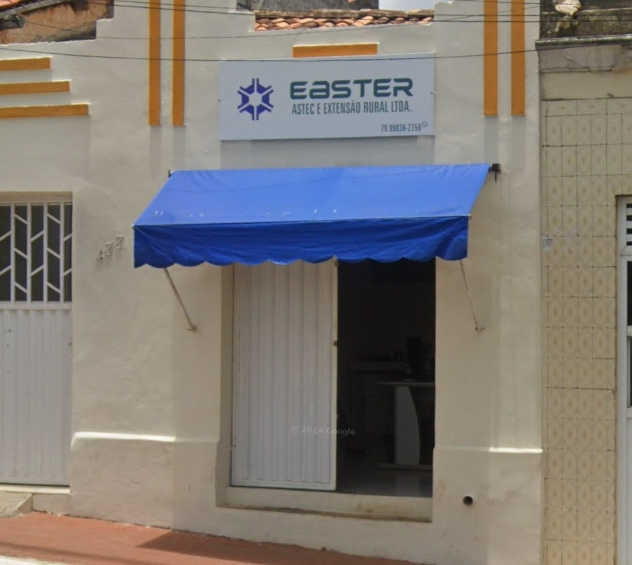
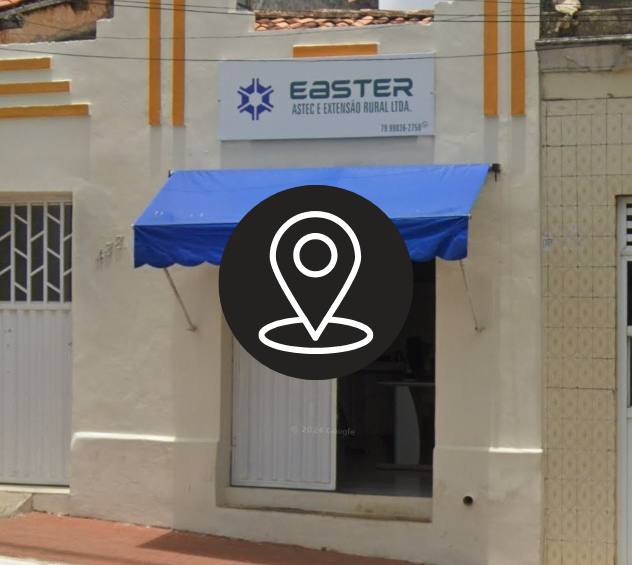
Atualização no Scroll

Changed region(s): [[0.3307, 0.3009, 0.6614, 0.692]]

diff --git a/Landin Page EASTER/homePage.html b/Landin Page EASTER/homePage.html
@@ -4,7 +4,7 @@
     <meta charset="UTF-8">
     <meta name="viewport" content="width=device-width, initial-scale=1.0">
     <link rel="stylesheet" href="style.css">
-    <script src="https://unpkg.com/boxicons@2.1.4/dist/boxicons.js"></script>
+    <link href='https://unpkg.com/boxicons@2.1.4/css/boxicons.min.css' rel='stylesheet'>
     <link rel="preconnect" href="https://fonts.googleapis.com">
     <link rel="preconnect" href="https://fonts.gstatic.com" crossorigin>
     <link href="https://fonts.googleapis.com/css2?family=Roboto:ital,wght@0,100..900;1,100..900&display=swap" rel="stylesheet">
@@ -18,11 +18,10 @@
             <img src="./img/Logo.png" alt="Logo Easter" draggable="false">
             <nav>
                 <ul>
-                    <li><a href="#Home" draggable="false">Início</a></li>
-                    <li><a href="#About" draggable="false">Sobre</a></li>
-                    <li><a href="#Work" draggable="false">Trabalho</a></li>
-                    <li><a href="#Contact" draggable="false">Contato</a></li>
-                    <li><a href="#Search" draggable="false"><box-icon name='search-alt-2' ></box-icon></a></li>
+                    <li><button class="scrollPage" id="scrollHome">Início</button></li>
+                    <li><button class="scrollPage" id="scrollAbout">Sobre</button></li>
+                    <li><button class="scrollPage" id="scrollWork">Trabalho</button></li>
+                    <li><button class="scrollPage" id="scrollContact">Contato</button></li>
                 </ul>
             </nav>
         </header>
@@ -31,7 +30,7 @@
                 <div id="homeText">
                     <h2>Nosso objetivo é garantir seu <br> sucesso no campo. E o seu?</h2>
                     <h4>Com qualidade, transformamos a gestão da sua propriedade.</h4>
-                    <a href="#Contact">Saber Mais</a>
+                    <button id="scrollContact">Saber Mais</button>
                 </div>
                 <div id="homeImg">
                     <img src="./img/image1.png" alt="Homem do campo" draggable="false">
@@ -43,7 +42,7 @@
                 <div id="mainAbout">
                     <div id="aboutImg">
                         <img src="./img/Easter.png" alt="Empresa Easter" id="EasterImg" draggable="false">
-                        <img src="#" alt="Técnico/Empresário José Roberto" id="BetoImg" draggable="false">
+                        <img src="#" alt="Técnico Rural/Empresário José Roberto" id="BetoImg" draggable="false">
                     </div>
                     <div id="aboutText">
                         <div class="aboutBoxText">
@@ -57,6 +56,33 @@
                         <div class="aboutBoxText">
                             <h3>Missão</h3>
                             <p>Transformar a gestão de propriedades rurais, garantindo a qualidade e a eficiência dos serviços prestados.</p>
+                        </div>
+                    </div>
+                </div>
+            </div>
+            <div id="Work">
+                <h4 class="info">Trabalho</h4>
+                <div id="mainWork">
+                    <div class="boxWork">
+                        #
+                        <h3></h3>
+                    </div>
+                </div>
+            </div>
+            <div id="Contact">
+                <h4 class="info">Contato</h4>
+                <div id="mainContact">
+                    <div id="imgContact">
+                        <img src="./img/Logo.png" alt="Logo Easter">
+                    </div>
+                    <div id="infoContact">
+                        <div id="textContact">
+                            <h3>Estamos aqui para resolver todas as suas dúvidas e mostrar por que somos a escolha certa para o sucesso do seu empreendimento agrícola.</h3>
+                            <h4>Entre em contato com nossa equipe pelo WhatsApp e descubra como podemos impulsionar seu sucesso agrícola!</h4>
+                        </div>
+                        <div id="buttonContact">
+                            <button id="instagram"><i class='bx bxl-instagram'></i> Redes Sociais</button>
+                            <button id="whatsApp"><i class='bx bxl-whatsapp'></i> WhatsApp</button>
                         </div>
                     </div>
                 </div>

diff --git a/Landin Page EASTER/style.css b/Landin Page EASTER/style.css
@@ -40,11 +40,15 @@ html, body{
     gap: 20px;
 }
 
-.container header nav ul li a{
+.container header nav ul li button{
     color: #000;
+    background: none;
+    border: none;
+    font-size: 17px;
+    cursor: pointer;
 }
 
-.container header nav ul li a::after{
+.container header nav ul li .scrollPage::after{
     content: "";
     display: block;
     width: 0;
@@ -53,17 +57,17 @@ html, body{
     transition: width 0.3s;
 }
 
-.container header nav ul li a:hover::after{
+.container header nav ul li .scrollPage:hover::after{
     width: 75%;
     transition: all 0.3s;
 }
 
-.container header nav ul li a:focus{
+.container header nav ul li button:focus{
     color: #000;
 }
 
 .container main{
-    margin: auto 15%;
+    margin: 0 15%;
 }
 
 #Home{
@@ -86,8 +90,7 @@ html, body{
     margin-bottom: 50px;
 }
 
-.container main #Home #homeText a{
-    margin-top: 30px;
+.container main #Home #homeText button{
     background-color: #00f;
     padding: 10px;
     border-radius: 5px;
@@ -95,10 +98,13 @@ html, body{
     font-weight: bolder;
     transition: ease 0.3s;
     box-shadow: 0 4 10px rgba(0,0,0,.14);
+    border: none;
+    font-size: 15px;
+    cursor: pointer;
 }
 
-.container main #Home #homeText a:hover{
-    background-color: #0a00ef;
+.container main #Home #homeText button:hover{
+    background-color: #0d02db;
 }
 
 .container main #Home #homeImg img{
@@ -127,15 +133,16 @@ hr{
     text-align: center;
 }
 
-.container main #About .info{
+.container main .info{
     position: relative;
     display: inline-block;
     margin-bottom: 30px;
     font-size: 18px;
     font-weight: bolder;
+    text-align: center;
 }
 
-.container main #About .info::after{
+.container main .info::after{
     content: "";
     position: absolute;
     left: 50%;
@@ -147,13 +154,14 @@ hr{
     transition: width 0.2s ease-in-out;
 }
 
-.container main #About .info:hover::after{
+.container main .info:hover::after{
     width: 100%;
 }
 
 .container main #About #mainAbout{
     display: flex;
     align-items: center;
+    justify-content: center;
 }
 
 .container main #About #mainAbout #aboutImg #EasterImg{
@@ -161,6 +169,7 @@ hr{
     border-radius: 10px;
     box-shadow: 5px 2px 10px rgba(0,0,0,.14);
     margin-right: 35px;
+    cursor: pointer;
 }
 
 .container main #About #mainAbout .aboutBoxText{
@@ -181,4 +190,84 @@ hr{
     border-radius: 15px;
     padding: 15px;
     margin: 20px;
+}
+
+.container main #Work{
+    text-align: center;
+}
+
+.container main #Work .info{
+    margin: 50px auto;
+}
+
+.container main #Work #mainAbout{
+    display: flex;
+    align-items: center;
+}
+
+.container main #Contact{
+    text-align: center;
+}
+
+.container main #Contact #mainContact{
+    display: flex;
+    justify-content: center;
+    align-items: center;
+}
+
+.container main #Contact #mainContact #imgContact img{
+    width: 350px;
+    margin-right: 60px;
+}
+
+.container main #Contact #mainContact #infoContact{
+    display: flex;
+    flex-direction: column;
+    justify-content: center;
+    align-items: center;
+    text-align: center;
+}
+
+.container main #Contact #mainContact #textContact h3{
+    font-weight: bolder;
+    font-size: 25px;
+    width: 500px;
+    text-align: start;
+    margin-bottom: 15px;
+}
+
+.container main #Contact #mainContact #textContact h4{
+    text-align: start;
+}
+
+.container main #Contact #mainContact button{
+    background: none;
+    border: none;
+    color: black;
+    cursor: pointer;
+    font-size: 25px;
+    font-weight: bolder;
+    background-color: #fff;
+    box-shadow: 0 4px 10px rgba(0,0,0,0.14);
+    width: 210px;
+    border-radius: 20px;
+    margin-top: 35px;
+    padding: 5px;
+    margin-right: 20px;
+    text-align: center;
+}
+
+.container main #Contact #mainContact i{
+    font-size: 30px;
+}
+
+.bxl-whatsapp{
+    color: #0f0;
+}
+
+.bxl-instagram{
+    background: linear-gradient(45deg, #833ab4, #fd1d1d);
+    -webkit-background-clip: text;
+    -webkit-text-fill-color: transparent;
+    color: transparent;
 }

diff --git a/Landin Page EASTER/script.js b/Landin Page EASTER/script.js
@@ -1,0 +1,35 @@
+document.addEventListener("DOMContentLoaded", () =>{
+
+    document.getElementById("scrollHome").addEventListener("click", () =>{
+        document.getElementById("Home").scrollIntoView({behavior: "smooth"})
+    })
+    document.getElementById("scrollAbout").addEventListener("click", () =>{
+        document.getElementById("About").scrollIntoView({behavior: "smooth"})
+    })
+    document.getElementById("scrollWork").addEventListener("click", () =>{
+        document.getElementById("Work").scrollIntoView({behavior: "smooth"})
+    })
+    document.querySelectorAll("#scrollContact").forEach((element) =>{
+        element.addEventListener("click", () =>{
+            document.getElementById("Contact").scrollIntoView({behavior: "smooth"})
+        })
+    })
+
+
+    const img = document.getElementById("EasterImg")
+    img.addEventListener("click", () =>{
+        window.open("https://maps.app.goo.gl/scitoi5PPJaZHkCcA", "_blank")
+    })
+
+    const insta = document.getElementById("instagram")
+    insta.addEventListener("click", () =>{
+        window.open("https://www.instagram.com/joserobertoda385?utm_source=ig_web_button_share_sheet&igsh=ZDNlZDc0MzIxNw==", "_blank")
+    })
+    const whats = document.getElementById("whatsApp")
+    whats.addEventListener("click", () =>{
+        const phoneNumber = "+557998362758"
+        const message = "Olá! Desejo saber mais sobre a *Easter*"
+        const whatsURL = "https://api.whatsapp.com/send?phone=" + phoneNumber + "&text=" + encodeURIComponent(message)
+        window.open(whatsURL, "_blank")
+    })
+})
